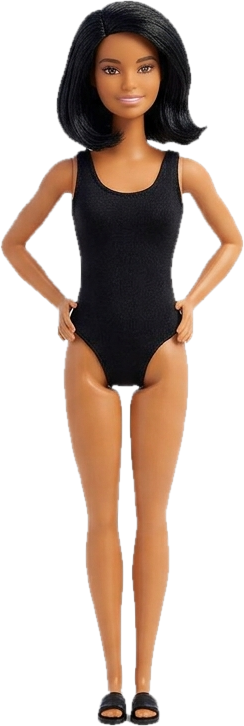
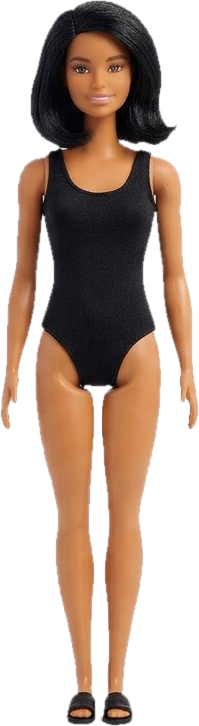
Swap in the arms-down doll and refit clothing zones
The new doll photo is narrower (199 x 726), so the clothing boxes are
rescaled to keep garments the same size on her body, and bags now hang
by her hand instead of her hip.

Claude-Session: https://claude.ai/code/session_012zQxVZxYwq1mMGS7fhb4LK

Changed region(s): [[0.0, 0.0, 1.0, 1.0], [0.603, 0.4848, 0.6332, 0.5152]]

diff --git a/app.js b/app.js
@@ -27,18 +27,18 @@
   ];
   const sceneUrl = (id) => `assets/scenes/${SCENES.some((s) => s.id === id) ? id : "studio"}.svg`;
 
-  // The doll photo is 244 x 726. Each category gets a box on her body, in
+  // The doll photo is 199 x 726. Each category gets a box on her body, in
   // fractions of the doll's width (cx, w) and height (y, h). A garment is
   // scaled to fit inside its box, then nudged by the item's saved fit.
-  const DOLL = { src: "assets/doll.png", ratio: 244 / 726 };
+  const DOLL = { src: "assets/doll.png", ratio: 199 / 726 };
   const FIT = {
-    top: { cx: 0.5, y: 0.19, w: 0.82, h: 0.3 },
-    bottom: { cx: 0.5, y: 0.385, w: 0.62, h: 0.57 },
-    dress: { cx: 0.5, y: 0.19, w: 0.7, h: 0.72 },
-    outerwear: { cx: 0.5, y: 0.18, w: 1.0, h: 0.52 },
-    shoes: { cx: 0.51, y: 0.925, w: 0.46, h: 0.08, anchor: "bottom" },
-    bag: { cx: 0.88, y: 0.4, w: 0.42, h: 0.24, anchor: "center" },
-    accessory: { cx: 0.5, y: 0.17, w: 0.34, h: 0.12 },
+    top: { cx: 0.5, y: 0.19, w: 1.0, h: 0.3 },
+    bottom: { cx: 0.5, y: 0.385, w: 0.76, h: 0.57 },
+    dress: { cx: 0.5, y: 0.19, w: 0.86, h: 0.72 },
+    outerwear: { cx: 0.5, y: 0.18, w: 1.23, h: 0.52 },
+    shoes: { cx: 0.5, y: 0.925, w: 0.56, h: 0.08, anchor: "bottom" },
+    bag: { cx: 0.92, y: 0.48, w: 0.5, h: 0.22, anchor: "center" },
+    accessory: { cx: 0.5, y: 0.17, w: 0.42, h: 0.12 },
   };
   const layerOrder = (tucked) =>
     tucked

diff --git a/style.css b/style.css
@@ -264,7 +264,7 @@ main {
   left: 50%;
   bottom: 4%;
   height: 88%;
-  aspect-ratio: 244 / 726;
+  aspect-ratio: 199 / 726;
   transform: translateX(-50%);
 }
 .dollbox img { position: absolute; user-select: none; -webkit-user-drag: none; }
